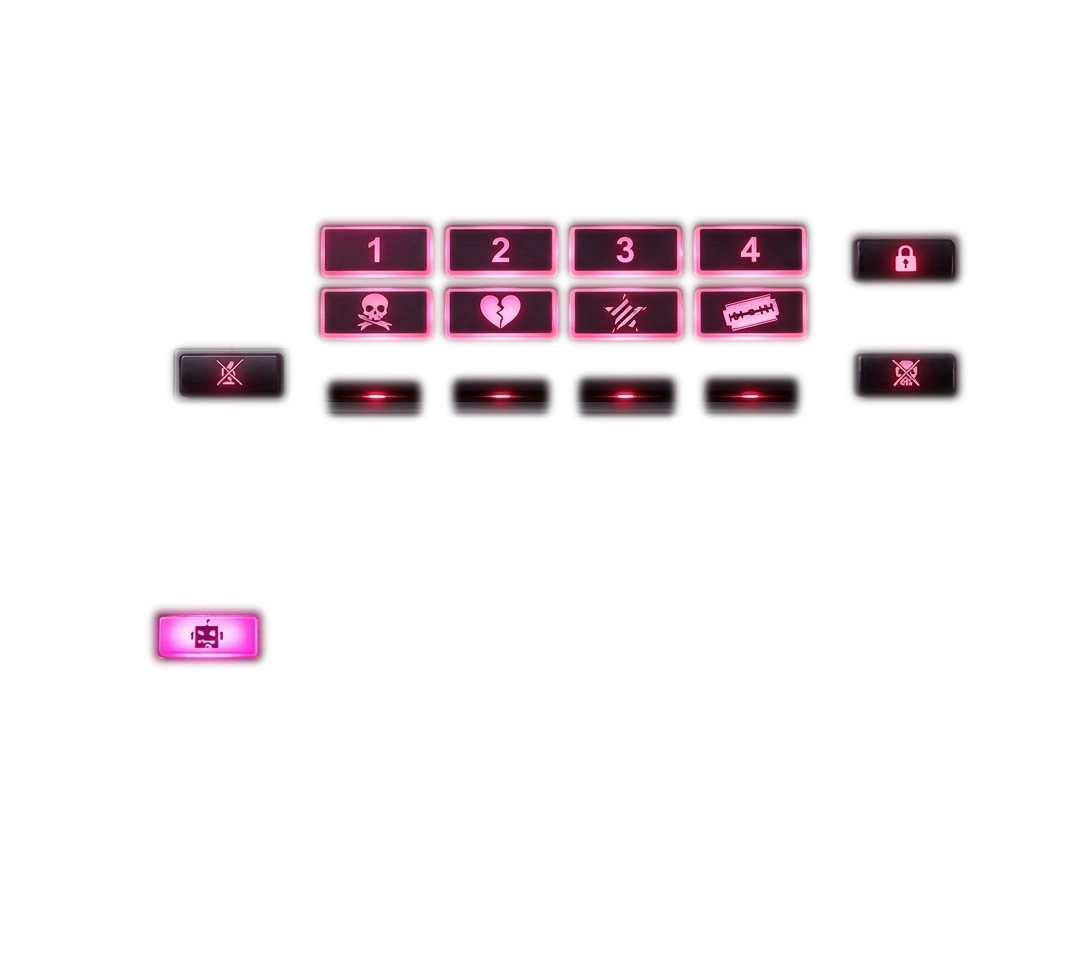
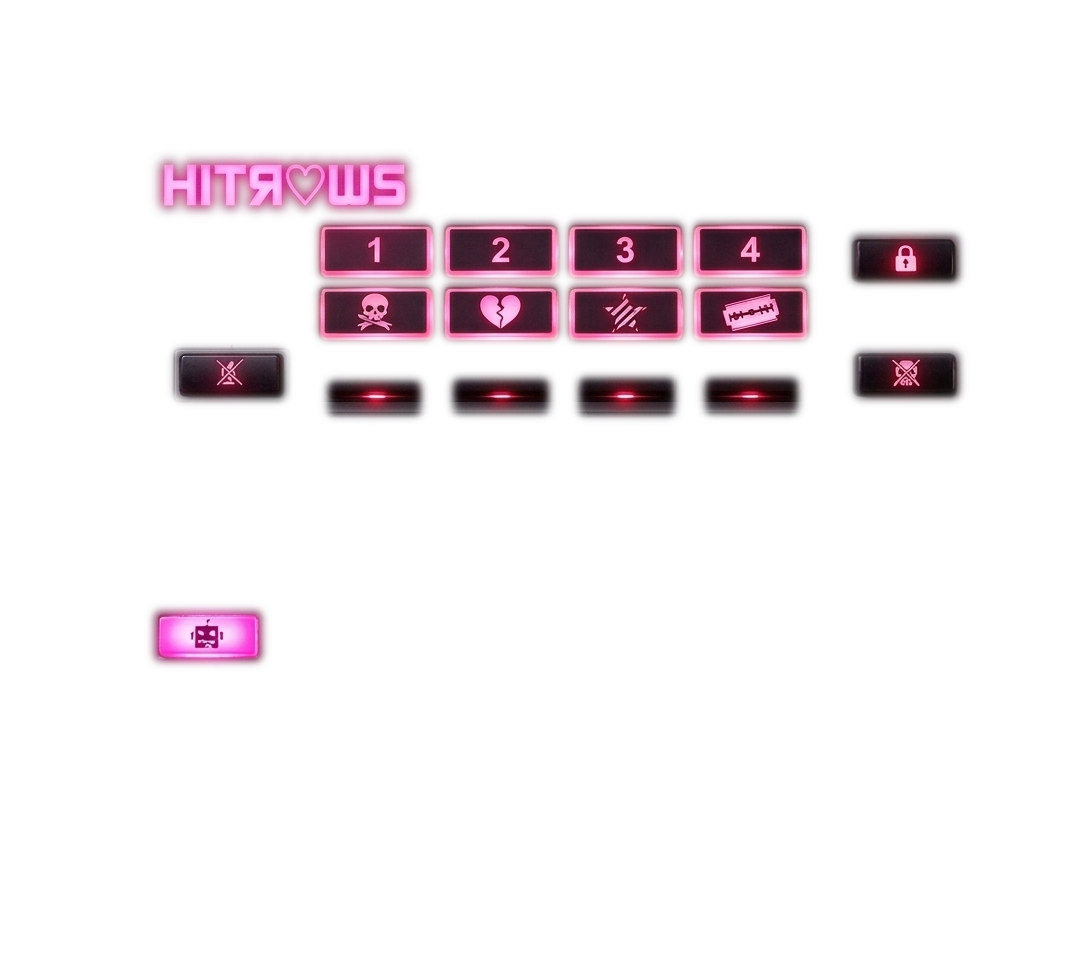
0.1.8: HITROWS wordmark lights up when the plugin is active
User added a glow variant of the HITROWS wordmark to pics/"light
transp.png". Lit whenever the plugin isn't bypassed, dark when BYPASS is
engaged - a status indicator, not a control (setInterceptsMouseClicks
(false, false)).

New Resources/hitrowsglow.png, cropped from the same sheet the footswitch
glows come from - bounds checked visually as a composite over
bg-clean.png first to confirm no bleed into the neighbouring "1" button's
own glow. Reuses GlowToggleButton for the overlay machinery; lit state
driven by the same 30Hz timer as the footswitches.

Verified via tools/preview.cpp: added a bypass=1 snapshot, confirmed the
wordmark is lit in every non-bypassed snapshot and dark in that one.

Version bumped to 0.1.8.

Changed region(s): [[0.1229, 0.1537, 0.3994, 0.2459]]

diff --git a/Source/PluginEditor.cpp b/Source/PluginEditor.cpp
@@ -94,6 +94,12 @@ namespace
     constexpr int kBypassGlowX = 815, kBypassGlowY = 315, kBypassGlowW = 180, kBypassGlowH = 110;
     juce::Rectangle<int> bypassGlowBounds() { return scaledNativeRect ({ kBypassGlowX, kBypassGlowY, kBypassGlowW, kBypassGlowH }); }
 
+    // HITROWS wordmark glow sprite bounds, same measurement approach
+    // (alpha bounding box of the cropped sprite, cross-checked visually
+    // against a composite over bg-clean.png before use).
+    constexpr int kHitrowsGlowX = 130, kHitrowsGlowY = 130, kHitrowsGlowW = 365, kHitrowsGlowH = 115;
+    juce::Rectangle<int> hitrowsGlowBounds() { return scaledNativeRect ({ kHitrowsGlowX, kHitrowsGlowY, kHitrowsGlowW, kHitrowsGlowH }); }
+
     const juce::Colour kKnobTickColour { 190, 120, 150 }; // matches the fader caps' own inlaid stripe tone - user's pick over the brighter branding pink
 }
 
@@ -220,6 +226,10 @@ EmoBoyEditor::EmoBoyEditor (EmoBoyProcessor& p)
         bypassParam->setValueNotifyingHost (bypassParam->getValue() > 0.5f ? 0.0f : 1.0f);
     };
 
+    hitrowsGlow.setGlowImage (juce::ImageCache::getFromMemory (BinaryData::hitrowsglow_png, BinaryData::hitrowsglow_pngSize));
+    hitrowsGlow.setInterceptsMouseClicks (false, false); // status indicator only, not a control
+    addAndMakeVisible (hitrowsGlow);
+
     startTimerHz (30);
 
     const int nativeW = background.getWidth() > 0 ? background.getWidth() : 1074;
@@ -234,6 +244,7 @@ void EmoBoyEditor::timerCallback()
 
     const bool isBypassed = proc.apvts.getRawParameterValue (Param::bypass)->load() > 0.5f;
     bypassButton.setLit (isBypassed);
+    hitrowsGlow.setLit (! isBypassed);
 }
 
 void EmoBoyEditor::paint (juce::Graphics& g)
@@ -298,4 +309,5 @@ void EmoBoyEditor::resized()
     robotKnob.setBounds (knobBounds());
     robotButton.setBounds (robotGlowBounds());
     bypassButton.setBounds (bypassGlowBounds());
+    hitrowsGlow.setBounds (hitrowsGlowBounds());
 }

diff --git a/tools/preview.cpp b/tools/preview.cpp
@@ -182,6 +182,16 @@ int main()
     {
         EmoBoyProcessor proc;
         proc.prepareToPlay (44100.0, 512);
+        setParam (proc, Param::bypass, 1.0f);
+        // HITROWS wordmark should be dark here (only unlit look from the
+        // background photo, no glow overlay), unlike every other snapshot
+        // in this file where bypass=0 and it should be lit - 2026-08-20.
+        snapshot (proc, "preview_bypassed.png");
+    }
+
+    {
+        EmoBoyProcessor proc;
+        proc.prepareToPlay (44100.0, 512);
         setParam (proc, Param::mode, (float) (int) Param::Mode::Robot);
         setParam (proc, Param::robotNote, 0.0f); // index 0, bottom of the list -> 7 o'clock (rework, 2026-08-20)
         snapshot (proc, "preview_robot_noteLow.png");

diff --git a/Source/PluginEditor.h b/Source/PluginEditor.h
@@ -100,6 +100,12 @@ private:
     GlowToggleButton robotButton;
     GlowToggleButton bypassButton;
 
+    // The HITROWS wordmark's lit look - purely a status indicator (no
+    // click handler, clicks pass through), lit whenever the plugin is
+    // *not* bypassed. Reuses GlowToggleButton for the image-overlay
+    // machinery even though nothing here is actually a button.
+    GlowToggleButton hitrowsGlow;
+
     // Standard (unstyled) juce::AlertWindow text-entry dialog - user's ask
     // (2026-08-20): a native-feeling system dialog, not a custom popup
     // drawn on the panel.

diff --git a/HANDOFF.md b/HANDOFF.md
@@ -9,6 +9,30 @@ This was an autonomous session per the brief in
 `~/Downloads/logic-demo-brief-for-claude-code.md` — no check-ins, decisions
 made and documented here for the user to review and correct.
 
+## 2026-08-20: 0.1.8 - HITROWS wordmark lights up when active
+
+User updated `pics/"light transp.png"` again, adding a glow variant of the
+HITROWS wordmark to the same sheet the footswitch glows live on. Asked for
+it to light up whenever the plugin is doing something (i.e. not
+bypassed), dark when BYPASS is engaged - a status indicator, not a
+control.
+
+Cropped the wordmark glow out (native bounds 130,130 to 495,245 - checked
+visually as a composite over `bg-clean.png` first, same as the two
+footswitch glows, to make sure the crop didn't bleed into the "1" button's
+own glow sitting right next to it) into `Resources/hitrowsglow.png`.
+Reused `GlowToggleButton` for the overlay machinery even though this
+isn't a real button - `setInterceptsMouseClicks (false, false)` so it
+never swallows a click meant for something underneath. Lit state driven
+by the same 30Hz timer as the two footswitches: `hitrowsGlow.setLit
+(! isBypassed)`.
+
+Verified via `tools/preview.cpp`'s existing snapshot machinery: added a
+`bypass=1` snapshot and visually confirmed the wordmark is lit in every
+existing (non-bypassed) snapshot and dark in the new bypassed one.
+
+Version bumped to 0.1.8. Pushed to `github.com/hitrows/emoboy`.
+
 ## 2026-08-20: 0.1.7 - Robot Note octave labels fixed to match Logic Pro
 
 User asked to check the note-naming algorithm specifically against Logic
